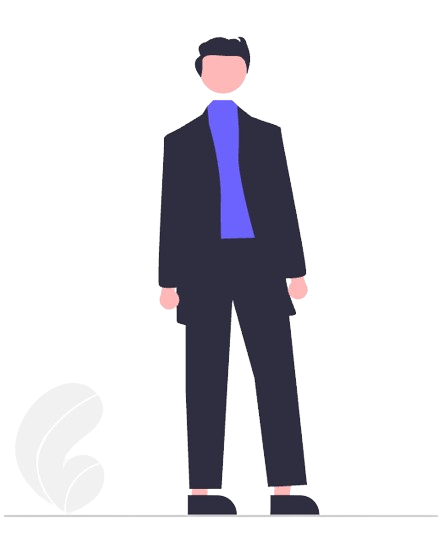
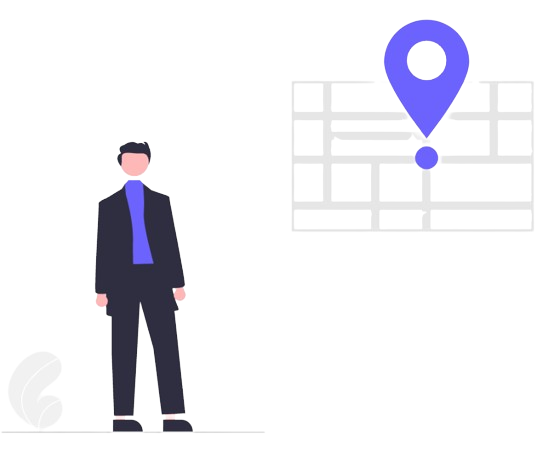
home page

Changed region(s): [[0.1562, 0.031, 0.9688, 0.9623]]

diff --git a/src/components/Home.jsx b/src/components/Home.jsx
@@ -3,16 +3,42 @@ import { Link } from "react-router-dom";
 
 function Home() {
   return (
-    <div className=' h-screen w-full flex justify-start  items-center mx-10'>
+    <div>
+    <div className=' h-screen text-left w-full flex justify-start  items-center mx-10'>
       <div>
-      <span className='font-semibold text-left text-[60px]'>Land<br/> Registration Using Blockchain</span>
-      <div>
+      <span className='font-semibold text-[60px]'>Land<br/> Registration Using Blockchain</span>
+      <div className='flex justify-center items-center rounded-2xl font-bold  text-center  w-[150px] h-[50px] bg-blue-300'>
         <Link to='#'> Dashboard</Link>
       </div>
       </div>
-      <div className=' mr-10'>
-          <img src="./public/assets/man.png" alt=""/>
+      <div className=''>
+          <img src="./public/assets/man.png" alt="" className=' object-contain'/>
       </div>
+    </div>
+    <div className='flex justify-center'>
+      
+      <div className=' w-[250px] rounded-2xl  mx-5  flex items-center justify-center flex-col h-[300px] border-2 border-blue-400'>
+          <img src="./public/assets/paper.png" alt="" />
+          <span className='text-[20px] font-semibold'>User</span>
+          <div className=' flex justify-center items-center rounded-2xl font-bold  text-center  w-[150px] h-[50px] bg-blue-300'>
+        <Link to='#'> Dashboard</Link>
+          </div>
+      </div>
+      <div className='w-[250px] mx-5 rounded-2xl flex items-center justify-center flex-col h-[300px] border-2 border-blue-400'>
+          <img src="./public/assets/user.png" alt="" />
+          <span className='text-[20px] font-semibold'>User</span>
+          <div className=' flex justify-center items-center rounded-2xl font-bold  text-center  w-[150px] h-[50px] bg-blue-300'>
+        <Link to='#'> Dashboard</Link>
+          </div>
+      </div>
+      <div className='w-[250px] mx-5 rounded-2xl flex items-center justify-center flex-col h-[300px] border-2 border-blue-400'>
+          <img src="./public/assets/worker.png" alt="" />
+          <span className='text-[20px] font-semibold'>User</span>
+          <div className=' flex justify-center items-center rounded-2xl font-bold  text-center  w-[150px] h-[50px] bg-blue-300'>
+        <Link to='#'> Dashboard</Link>
+          </div>
+      </div>
+    </div>
     </div>
   )
 }

diff --git a/src/App.jsx b/src/App.jsx
@@ -1,7 +1,3 @@
-<<<<<<< HEAD
-import React from 'react'
-import Navbar from './components/Navbar'
-=======
 import { useState } from 'react'
 import reactLogo from './assets/react.svg'
 import viteLogo from '/vite.svg'
@@ -12,15 +8,8 @@ import MainPage from './MainPage';
 
 function App() {
   const [count, setCount] = useState(0)
->>>>>>> 34017eadc141ba0761657c5cb486a7fbd70a57a7
 
-const App = () => {
   return (
-<<<<<<< HEAD
-    <div>App
-      <Navbar/>
-    </div>
-=======
     <>
       <BrowserRouter>
       <Routes>
@@ -31,7 +20,6 @@ const App = () => {
       </Routes>
       </BrowserRouter>
     </>
->>>>>>> 34017eadc141ba0761657c5cb486a7fbd70a57a7
   )
 }
 
